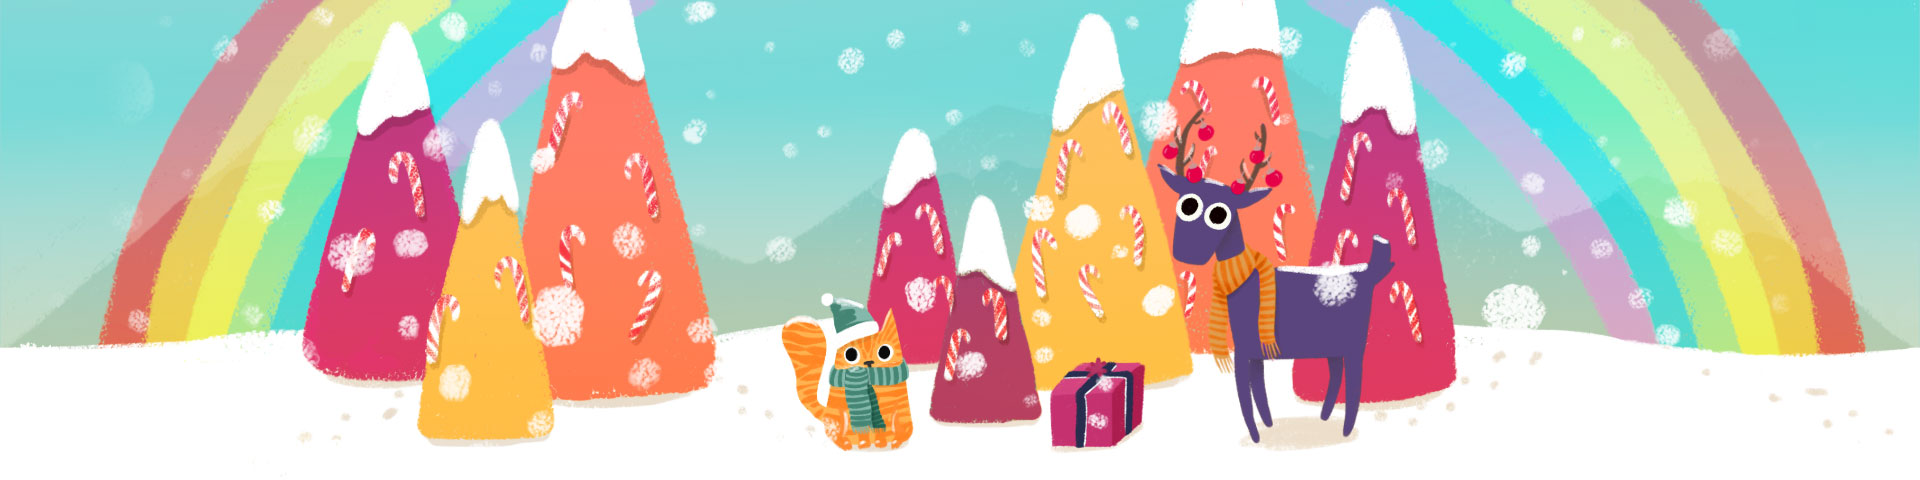
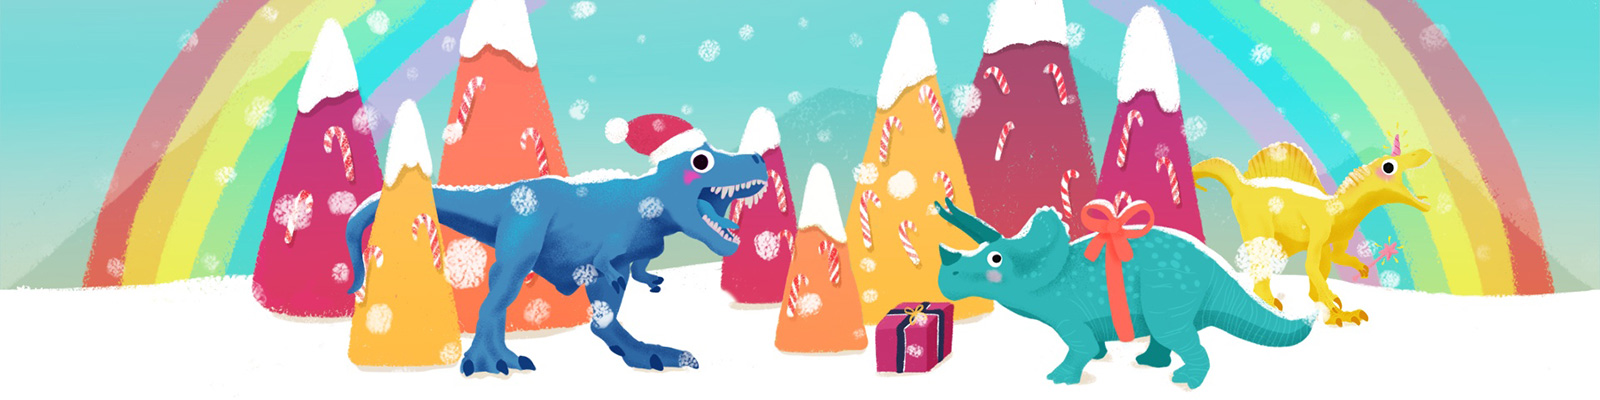
Met à jour l'image de fond 2019

Changed region(s): [[0.2188, 0.09, 0.9062, 0.99], [0.9375, 0.81, 0.9688, 0.84], [0.1875, 0.84, 0.2188, 0.87]]

diff --git a/style.css b/style.css
@@ -2005,10 +2005,11 @@ button::-moz-focus-inner {
  */
 .home--2019 .hero {
 	background: url(images/header/2019/background.jpg) no-repeat center top, url(images/header/2019/pattern.jpg) repeat-x center top;
+	background-size: auto 100%;
 }
 
 	.home--2019 .hero-content {
-		min-height: 30rem;
+		min-height: 25rem;
 	}
 
 	.home--2019 .hero-h1 {
